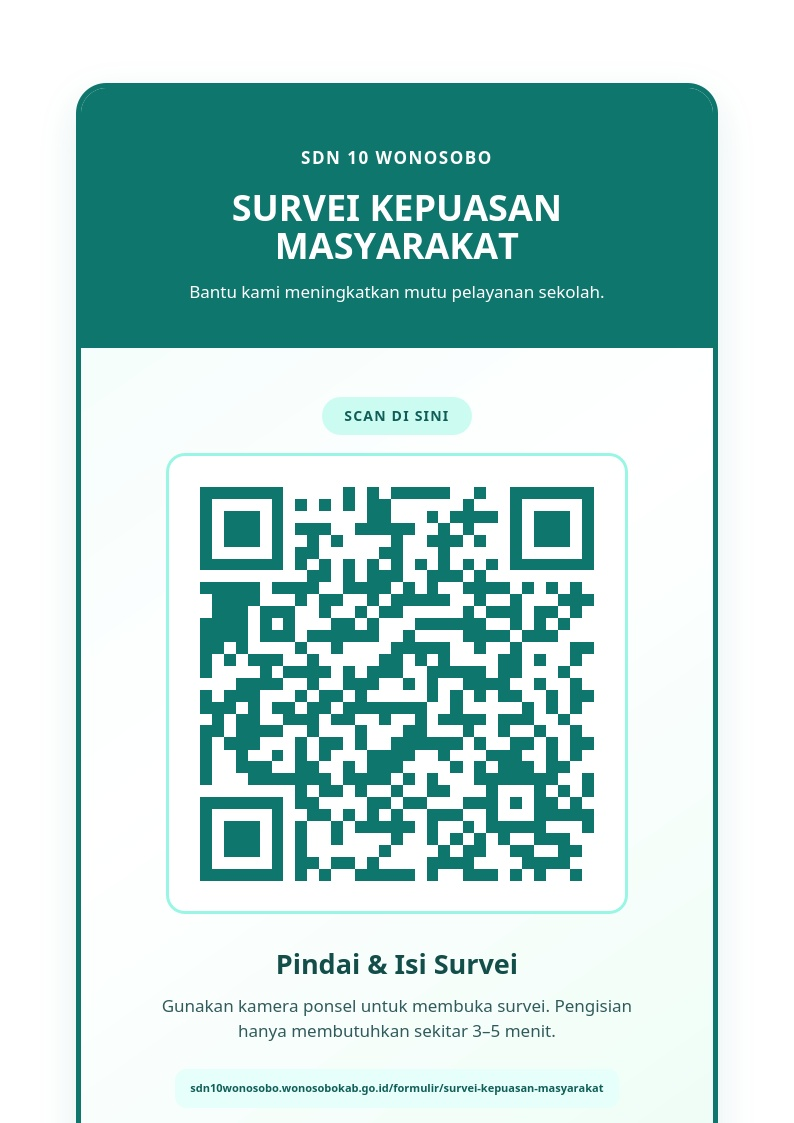
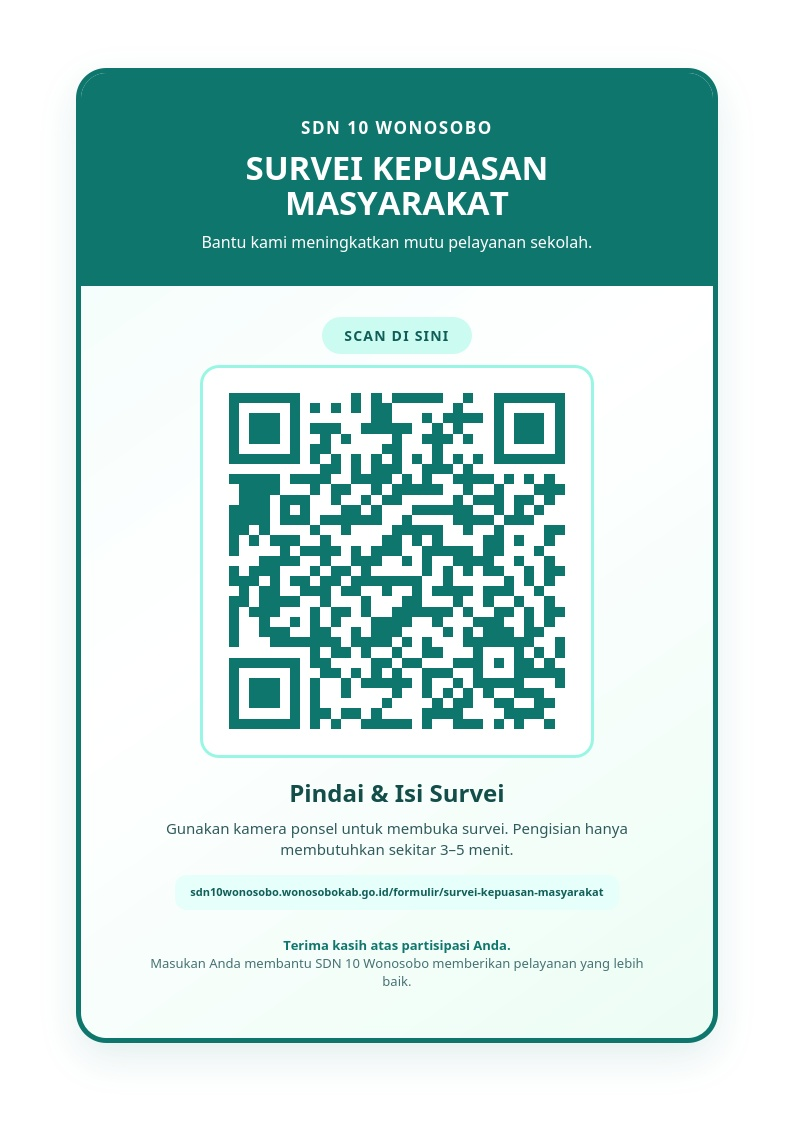
Perbaiki tata letak kartu QR agar footer tampil utuh

Changed region(s): [[0.0907, 0.0623, 0.9068, 1.0], [0.2116, 0.9662, 0.7859, 0.9973]]

diff --git a/qr_skm_sdn10.html b/qr_skm_sdn10.html
@@ -17,11 +17,11 @@
       width: 210mm;
       min-height: 297mm;
       margin: 0 auto;
-      padding: 22mm 20mm;
+      padding: 18mm 20mm;
       background: #fff;
     }
     .card {
-      min-height: 250mm;
+      min-height: 258mm;
       overflow: hidden;
       border: 1.5mm solid #0f766e;
       border-radius: 8mm;
@@ -30,17 +30,17 @@
       text-align: center;
     }
     .header {
-      padding: 15mm 13mm 12mm;
+      padding: 11mm 13mm 9mm;
       background: #0f766e;
       color: #fff;
     }
     .school { font-size: 13pt; font-weight: 700; letter-spacing: 1.5px; }
-    .title { margin: 5mm 0 0; font-size: 27pt; font-weight: 800; line-height: 1.08; }
-    .subtitle { margin: 4mm 0 0; font-size: 13pt; line-height: 1.45; }
-    .content { padding: 13mm 15mm 14mm; }
+    .title { margin: 3mm 0 0; font-size: 25pt; font-weight: 800; line-height: 1.08; }
+    .subtitle { margin: 3mm 0 0; font-size: 12pt; line-height: 1.35; }
+    .content { padding: 8mm 15mm 9mm; }
     .scan-label {
       display: inline-block;
-      margin: 0 0 5mm;
+      margin: 0 0 3mm;
       padding: 2.3mm 6mm;
       border-radius: 999px;
       background: #ccfbf1;
@@ -51,29 +51,29 @@
     }
     .qr-frame {
       display: block;
-      width: 122mm;
-      height: 122mm;
+      width: 104mm;
+      height: 104mm;
       max-width: 100%;
-      margin: 0 auto 8mm;
-      padding: 6mm;
+      margin: 0 auto 5mm;
+      padding: 5mm;
       border: 1mm solid #99f6e4;
       border-radius: 5mm;
       background: #fff;
     }
-    .cta { margin: 0; font-size: 20pt; font-weight: 800; color: #134e4a; }
-    .instruction { margin: 3mm auto 7mm; max-width: 135mm; font-size: 12.5pt; line-height: 1.5; color: #315a5c; }
+    .cta { margin: 0; font-size: 18pt; font-weight: 800; color: #134e4a; }
+    .instruction { margin: 2mm auto 4mm; max-width: 135mm; font-size: 11pt; line-height: 1.4; color: #315a5c; }
     .url {
       display: inline-block;
       max-width: 100%;
       overflow-wrap: anywhere;
-      padding: 3mm 4mm;
+      padding: 2.5mm 4mm;
       border-radius: 3mm;
       background: #e6fffa;
       color: #115e59;
       font-size: 8.5pt;
       font-weight: 700;
     }
-    .footer { margin-top: 12mm; font-size: 9.5pt; line-height: 1.5; color: #477174; }
+    .footer { margin-top: 7mm; font-size: 9.5pt; line-height: 1.4; color: #477174; }
     .footer strong { color: #0f766e; }
     @media print {
       body { background: #fff; }
